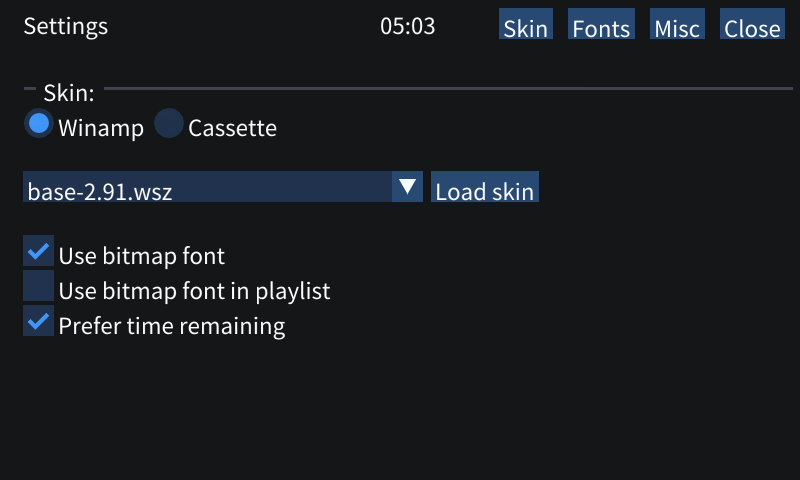
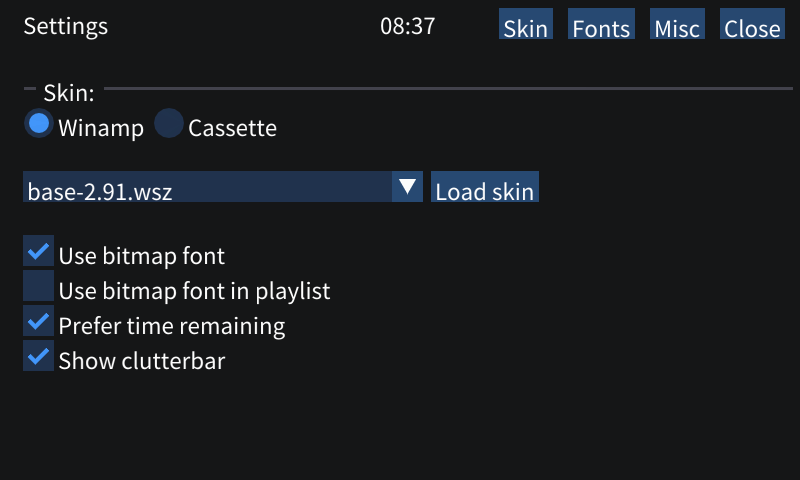
update usage with clutterbar

Changed region(s): [[0.0312, 0.6875, 0.2812, 0.7812], [0.4688, 0.0312, 0.5625, 0.0625]]

diff --git a/TODO.md b/TODO.md
@@ -4,7 +4,8 @@
   - [ ] inotify for directory change? init signal on card insert?
   - [ ] update skin list
   - [ ] error handling (current skin was deleted, what happens next?)
-- [ ] update winamp settings screenshot in usage (added clutterbar)
+- [x] update winamp settings screenshot in usage (added clutterbar)
+- [x] long cassette titles/artists are incorrectly formatted when changed and active screen is settings
 - [x] refactor winamp skin loading with better error handling
 - [x] remove title artist duplication on "huge cover art" toggle
 - [x] winamp: play in playing state resets track to start and plays it again
@@ -67,14 +68,13 @@
 - [ ] simple clock skin
 - [ ] eq button custom action - too small?
 - [ ] "restart wampy" button in settings - use case?
-- [ ] single connection?
+- [ ] single connection over socket?
 - [ ] walkman One settings in wampy settings
 
 # hard to solve
 
-- [ ] long cassette titles/artists are incorrectly formatted when changed and active screen is settings
 - [ ] winamp playlist flicker sometimes (or is it?)
-- [ ] time/cover features are not applied on boot
+- [ ] time/cover features are not applied on device boot, only after first toggle
 - [ ] cassette tape combo is hidden by screen edge on hagoromo (culling and rotation)
 - [ ] font atlases are too big
 - [ ] blink/marquee timers are not precise

diff --git a/USAGE.md b/USAGE.md
@@ -152,6 +152,8 @@ You can get skins from [Winamp Skin Museum](https://skins.webamp.org/).
 
 `Prefer time remaining` changes track time to negative on application start.
 
+`Show clutterbar` displays vertical list of options to the left of track time/visualization.
+
 #### Known issues and quirks
 
 Issues:
